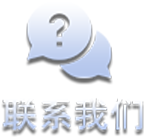
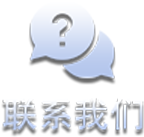
nav bar 添加素材，更新樣式

diff --git a/src/app/component/nav-bar/nav-bar.component.scss b/src/app/component/nav-bar/nav-bar.component.scss
@@ -19,7 +19,7 @@
   vertical-align: middle;
 
   img {
-    height: 50px;
+    height: 44px;
   }
 }
 
